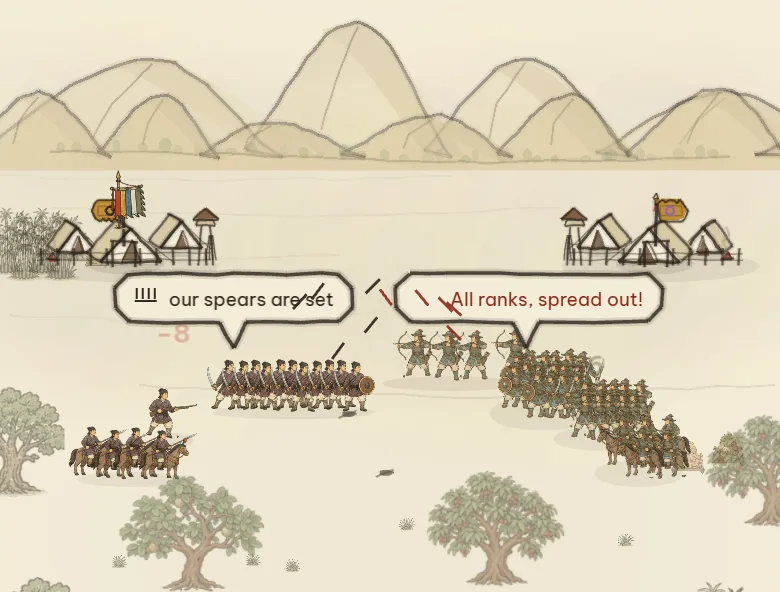
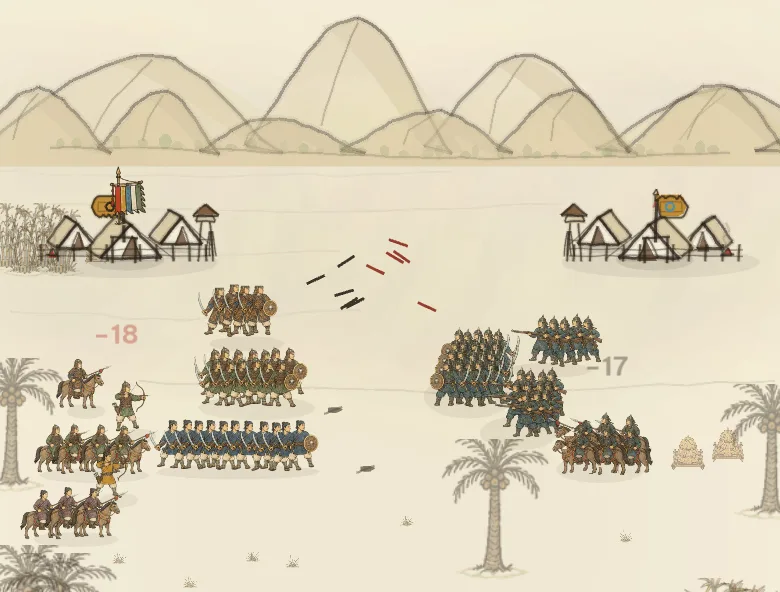
docs(readme): shots reshot, and three captions that describe what is in them
The shot driver's second pass, and the pictures it produced. Three alt texts
were describing an older frame — the summon card is now "The Court Presents",
the battle shot has horse at the flank and arrows in flight rather than speech
bubbles, and the Chronicle card is a beat of the story rather than a named
rival's offer.

diff --git a/README.md b/README.md
@@ -114,7 +114,7 @@ Four resources — **food, supplies, gold, humans** — flow from provinces whos
 
 <table>
   <tr>
-    <td width="38%"><img src="docs/readme/summon.webp" alt="Summon a Champion: three answer the call, one will serve — a portrait, six stats, a character line, wages" width="100%"></td>
+    <td width="38%"><img src="docs/readme/summon.webp" alt="The Court Presents: a champion offered to the throne — portrait, stats, a character line and the wage, one of three to swipe through" width="100%"></td>
     <td valign="top">
 
 Champions arrive by **summon** — a gacha with pity, *three answer the call, one will serve* — or are drafted from your court's Favor. Each carries six stats (martial, logistics, administration, diplomacy, loyalty, renown), a wage the treasury feels every season, a character line worth reading, and a portrait; a first meeting is recorded in the Codex for good.
@@ -154,7 +154,7 @@ The enemy telegraphs what they hold and what they are re-forming into, in words 
 
 Nothing on the field is a sprite sheet. A host is drawn as ranked figures standing in the shape it is actually holding — spears two deep, horse gathered at the point, shields locked — under its own banner, with its camp behind it, from the same procedural ink that draws the paddies and the citadels. What you can read at a glance — *their line is still forming, ours is a set hedge* — **is** the state of the fight:
 
-<img src="docs/readme/armies.webp" alt="Both hosts drawn on the field: ranked figures in their shapes, banners, camps, speech bubbles" width="100%">
+<img src="docs/readme/armies.webp" alt="Both hosts drawn on the field: ranked figures in their shapes, horse at the flank, banners, camps, arrows in flight" width="100%">
 
 ## 📜 The Chronicle — the stories are the engine
 
@@ -162,7 +162,7 @@ The stories are not cutscenes. They are **forty-nine templates** that bind thems
 
 <table>
   <tr>
-    <td width="40%"><img src="docs/readme/chronicle.webp" alt="A story card in play: a rival lord's offer, three answers with real costs, and an advisor's counsel beneath" width="100%"></td>
+    <td width="40%"><img src="docs/readme/chronicle.webp" alt="A story card in play: a beat from the Chronicle, each answer carrying a real cost" width="100%"></td>
     <td valign="top">
 
 **A few of the pages**
